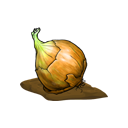
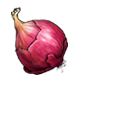
new crop orb: Onions

diff --git a/src/main/java/thesimpleton/orbs/OnionCropOrb.java b/src/main/java/thesimpleton/orbs/OnionCropOrb.java
@@ -1,0 +1,57 @@
+package thesimpleton.orbs;
+
+import com.megacrit.cardcrawl.core.CardCrawlGame;
+import com.megacrit.cardcrawl.localization.OrbStrings;
+import com.megacrit.cardcrawl.orbs.AbstractOrb;
+import thesimpleton.TheSimpletonMod;
+import thesimpleton.crops.OnionCrop;
+import thesimpleton.powers.utils.Crop;
+
+public class OnionCropOrb extends AbstractCropOrb {
+  public static final Crop CROP_ENUM = Crop.ONIONS;
+  public static final String ORB_ID = "TheSimpletonMod:OnionCropOrb";
+  public static final String IMG_PATH = "TheSimpletonMod/img/orbs/plantonion.png";
+  private static final OrbStrings orbStrings;
+  public static final String NAME;
+  public static final String[] DESCRIPTIONS;
+
+  public OnionCropOrb() {
+    this(0);
+  }
+
+  public OnionCropOrb(int amount) {
+    super(CROP_ENUM, ORB_ID, NAME, amount, OnionCrop.MATURITY_THRESHOLD, DESCRIPTIONS[0], IMG_PATH);
+  }
+
+  @Override
+  public void onEvoke() {
+//    this.
+  }
+
+  @Override
+  public AbstractOrb makeCopy() {
+    return new OnionCropOrb();
+  }
+
+  @Override
+  public void playChannelSFX() {
+    TheSimpletonMod.logger.debug(" ============================================= ADD playChannelSFX for " + this.name + " =============================================");
+  }
+
+  private static String getDescription() {
+    return getGenericDescription(OnionCrop.MATURITY_THRESHOLD)
+        + " NL " + DESCRIPTIONS[0] + OnionCrop.WEAK_PER_STACK + DESCRIPTIONS[1];
+  }
+
+  @Override
+  public void updateDescription() {
+    this.description = getDescription();
+    this.update();
+  }
+
+  static {
+    orbStrings = CardCrawlGame.languagePack.getOrbString(ORB_ID);
+    NAME = orbStrings.NAME;
+    DESCRIPTIONS = orbStrings.DESCRIPTION;
+  }
+}

diff --git a/src/main/java/thesimpleton/crops/OnionCrop.java b/src/main/java/thesimpleton/crops/OnionCrop.java
@@ -1,0 +1,43 @@
+package thesimpleton.crops;
+
+import com.megacrit.cardcrawl.actions.common.ApplyPowerAction;
+import com.megacrit.cardcrawl.cards.AbstractCard;
+import com.megacrit.cardcrawl.characters.AbstractPlayer;
+import com.megacrit.cardcrawl.dungeons.AbstractDungeon;
+import com.megacrit.cardcrawl.monsters.AbstractMonster;
+import com.megacrit.cardcrawl.powers.WeakPower;
+import thesimpleton.cards.SimpletonUtil;
+import thesimpleton.cards.power.crop.AbstractCropPowerCard;
+import thesimpleton.cards.power.crop.Onions;
+import thesimpleton.orbs.OnionCropOrb;
+import thesimpleton.powers.utils.Crop;
+
+public class OnionCrop extends AbstractCrop {
+  public static final Crop CROP_ENUM = Crop.ONIONS;
+  private static final String ORB_ID = OnionCropOrb.ORB_ID;
+  private static final AbstractCropPowerCard POWER_CARD = new Onions();
+
+  private static final AbstractCard.CardRarity RARITY = AbstractCard.CardRarity.COMMON;
+
+
+  public static final int MATURITY_THRESHOLD = 5;
+  public static final int WEAK_PER_STACK = 1;
+
+  public OnionCrop() {
+    super(CROP_ENUM, ORB_ID, POWER_CARD, RARITY, MATURITY_THRESHOLD);
+  }
+
+  protected int harvestAction(int harvestAmount) {
+    AbstractPlayer player = SimpletonUtil.getPlayer();
+    if (harvestAmount > 0) {
+      for (int i = 0; i < harvestAmount; i++) {
+        AbstractMonster m = SimpletonUtil.getRandomMonster();
+        if (m != null) {
+          AbstractDungeon.actionManager.addToBottom(
+              new ApplyPowerAction(m, player, new WeakPower(m, WEAK_PER_STACK, false), WEAK_PER_STACK));
+        }
+      }
+    }
+    return harvestAmount;
+  }
+}

diff --git a/src/main/java/thesimpleton/crops/PotatoCrop.java b/src/main/java/thesimpleton/crops/PotatoCrop.java
@@ -10,7 +10,7 @@ import thesimpleton.orbs.PotatoCropOrb;
 import thesimpleton.powers.utils.Crop;
 import thesimpleton.relics.HotPotato;
 
-public class PotatoesCrop extends AbstractCrop {
+public class PotatoCrop extends AbstractCrop {
   public static final Crop CROP_ENUM = Crop.POTATOES;
   private static final String ORB_ID = PotatoCropOrb.ORB_ID;
   private static final AbstractCropPowerCard POWER_CARD = new Potatoes();
@@ -19,13 +19,13 @@ public class PotatoesCrop extends AbstractCrop {
 
   public static final int MATURITY_THRESHOLD = 5;
 
-  public PotatoesCrop() {
+  public PotatoCrop() {
     super(CROP_ENUM, ORB_ID, POWER_CARD, RARITY, MATURITY_THRESHOLD);
-    logger.debug("MAKIN' POTATOES (instantiating PotatoesCrop).");
+    logger.debug("MAKIN' POTATOES (instantiating PotatoCrop).");
   }
 
   protected int harvestAction(int harvestAmount) {
-    logger.debug("PotatoesCrop::harvestAction harvestAmount:" + harvestAmount);
+    logger.debug("PotatoCrop::harvestAction harvestAmount:" + harvestAmount);
     if (harvestAmount > 0) {
       if (SimpletonUtil.getPlayer().hasRelic(HotPotato.ID)) {
         SimpletonUtil.getPlayer().getRelic(HotPotato.ID).flash();

diff --git a/src/main/java/thesimpleton/crops/AbstractCrop.java b/src/main/java/thesimpleton/crops/AbstractCrop.java
@@ -306,21 +306,20 @@ abstract public class AbstractCrop {
       final CornCrop cornCrop = new CornCrop();
       final SquashCrop squashCrop = new SquashCrop();
       final MushroomCrop mushroomCrop = new MushroomCrop();
-//      final PlantOnionPower onionPower = new PlantOnionPower(dummy, 0);
-      final PotatoesCrop potatoesCrop = new PotatoesCrop();
+      final OnionCrop onionCrop = new OnionCrop();
+      final PotatoCrop potatoCrop = new PotatoCrop();
       final SpinachCrop spinachCrop = new SpinachCrop();
-
 //      final PlantTurnipPower turnipPower = new PlantTurnipPower(dummy, 0);
 
 //      referenceCrops.add(artichokePower);
       referenceCrops.add(asparagusCrop);
       referenceCrops.add(chilisCrop);
-      referenceCrops.add(potatoesCrop);
+      referenceCrops.add(potatoCrop);
       referenceCrops.add(cornCrop);
       referenceCrops.add(squashCrop);
       referenceCrops.add(spinachCrop);
       referenceCrops.add(mushroomCrop);
-//      referenceCrops.add(onionPower);
+      referenceCrops.add(onionCrop);
 //      referenceCrops.add(turnipPower);
 
     }

diff --git a/src/main/java/thesimpleton/orbs/PotatoCropOrb.java b/src/main/java/thesimpleton/orbs/PotatoCropOrb.java
@@ -4,7 +4,7 @@ import com.megacrit.cardcrawl.core.CardCrawlGame;
 import com.megacrit.cardcrawl.localization.OrbStrings;
 import com.megacrit.cardcrawl.orbs.AbstractOrb;
 import thesimpleton.TheSimpletonMod;
-import thesimpleton.crops.PotatoesCrop;
+import thesimpleton.crops.PotatoCrop;
 import thesimpleton.powers.utils.Crop;
 
 public class PotatoCropOrb extends AbstractCropOrb {
@@ -20,7 +20,7 @@ public class PotatoCropOrb extends AbstractCropOrb {
     }
 
     public PotatoCropOrb(int amount) {
-        super(CROP_ENUM, ORB_ID, NAME, amount, PotatoesCrop.MATURITY_THRESHOLD, DESCRIPTIONS[0], IMG_PATH);
+        super(CROP_ENUM, ORB_ID, NAME, amount, PotatoCrop.MATURITY_THRESHOLD, DESCRIPTIONS[0], IMG_PATH);
     }
 
     @Override
@@ -39,7 +39,7 @@ public class PotatoCropOrb extends AbstractCropOrb {
     }
 
     private static String getDescription() {
-        return getGenericDescription(PotatoesCrop.MATURITY_THRESHOLD)
+        return getGenericDescription(PotatoCrop.MATURITY_THRESHOLD)
             + " NL " + DESCRIPTIONS[0];
     }
 

diff --git a/src/main/java/thesimpleton/cards/power/crop/Onions.java b/src/main/java/thesimpleton/cards/power/crop/Onions.java
@@ -9,8 +9,11 @@ import com.megacrit.cardcrawl.localization.CardStrings;
 import com.megacrit.cardcrawl.monsters.AbstractMonster;
 import thesimpleton.TheSimpletonMod;
 import thesimpleton.actions.ApplyCropAction;
+import thesimpleton.actions.CropSpawnAction;
 import thesimpleton.cards.TheSimpletonCardTags;
 import thesimpleton.enums.AbstractCardEnum;
+import thesimpleton.orbs.OnionCropOrb;
+import thesimpleton.orbs.SpinachCropOrb;
 import thesimpleton.powers.PlantOnionPower;
 
 public class Onions extends AbstractCropPowerCard {
@@ -37,8 +40,7 @@ public class Onions extends AbstractCropPowerCard {
 
   @Override
   public void use(AbstractPlayer p, AbstractMonster m) {
-    AbstractDungeon.actionManager.addToBottom(
-        new ApplyCropAction(p, p, new PlantOnionPower(p, this.magicNumber), this.magicNumber, true));
+    AbstractDungeon.actionManager.addToBottom(new CropSpawnAction(new OnionCropOrb(this.magicNumber)));
   }
 
   @Override

diff --git a/src/main/java/thesimpleton/powers/utils/Crop.java b/src/main/java/thesimpleton/powers/utils/Crop.java
@@ -12,8 +12,8 @@ public enum Crop {
   CHILIS(new ChilisCrop()),
   SQUASH(new SquashCrop()),
   MUSHROOMS(new MushroomCrop()),
-  ONIONS(null),
-  POTATOES(new PotatoesCrop()),
+  ONIONS(new OnionCrop()),
+  POTATOES(new PotatoCrop()),
   SPINACH(new SpinachCrop()),
   TURNIPS(null);
 
@@ -33,7 +33,7 @@ public enum Crop {
         return new PlantCornPower(owner, amount, isFromCard);
       case CHILIS:
         return new PlantChiliPower(owner, amount, isFromCard);
-      case SQUASH:PlantSquashPower:
+      case SQUASH:
         return new PlantSquashPower(owner, amount, isFromCard);
       case MUSHROOMS:
         return new PlantMushroomPower(owner, amount, isFromCard);
